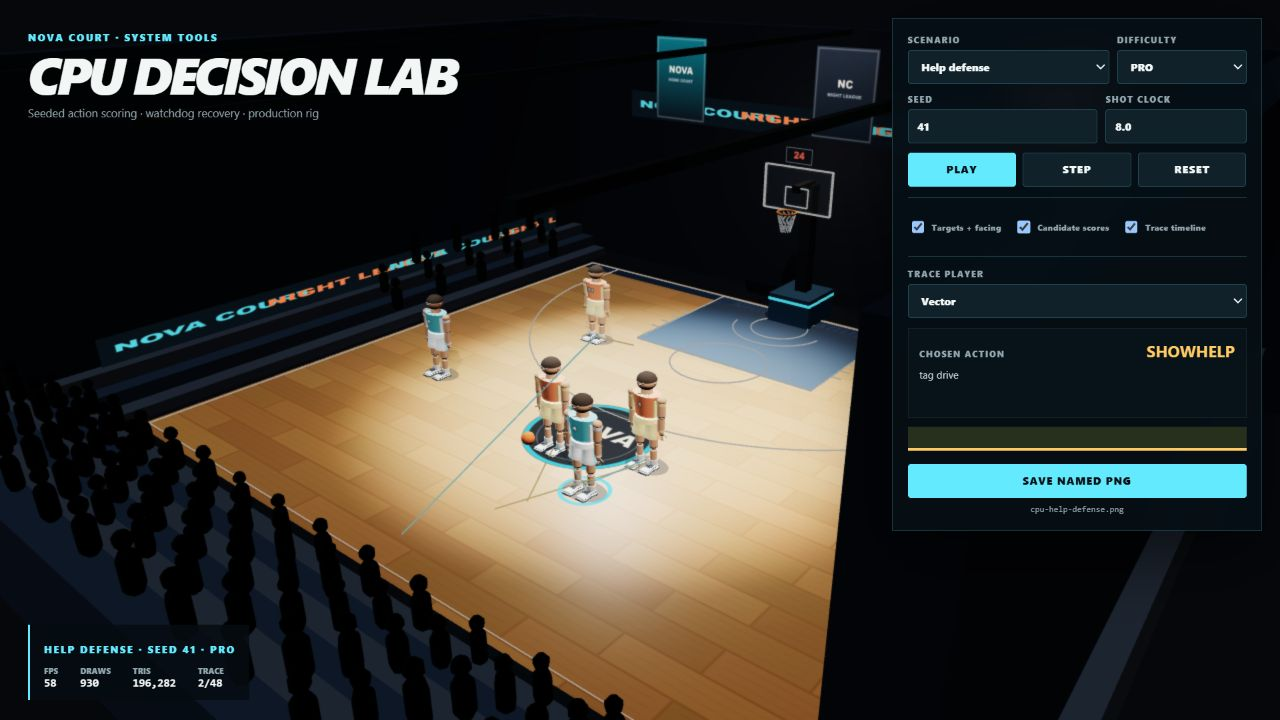
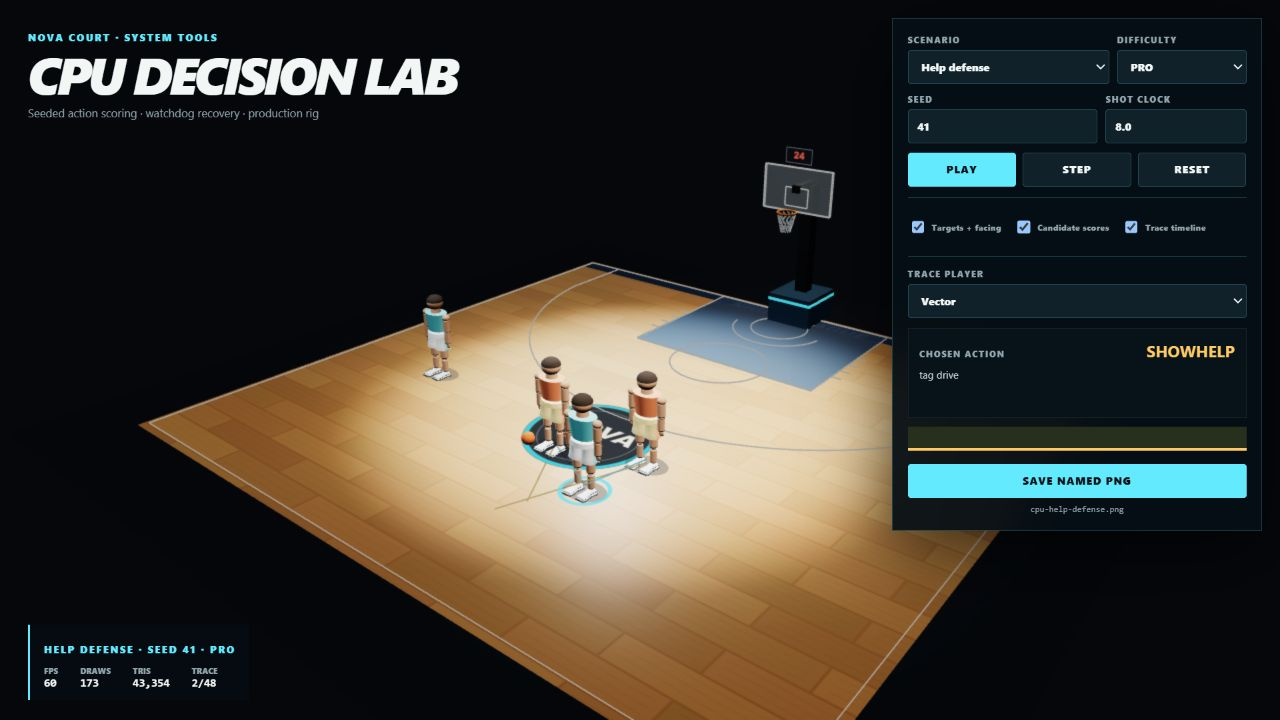
perf: enforce CPU lab render budget

diff --git a/dist/js/cpu-lab.js b/dist/js/cpu-lab.js
@@ -1,11 +1,14 @@
 import { createAIDirector, AI_TRACE_LIMIT, DIFFICULTY_PRESETS } from "./ai.js?v=5.0";
 import { NovaCourtEngine } from "./engine.js?v=6.1";
+import {
+  CPU_LAB_RENDER_BUDGET,
+  cpuLabWithinRenderBudget,
+} from "./cpu-lab-budget.js?v=1.0";
 
 const T = globalThis.THREE;
 const $ = (selector) => document.querySelector(selector);
 const clamp = (value, min = 0, max = 1) => Math.max(min, Math.min(max, value));
 const query = new URLSearchParams(location.search);
-
 export const CPU_LAB_SCENARIOS = Object.freeze({
   "open-jumper": { label: "Open jumper", clock: 14, holder: [0, .2], defender: [3.5, 1.2], mate: [4.1, .2], help: [4.15, -.1] },
   "light-contest": { label: "Lightly contested", clock: 11, holder: [0, .3], defender: [1.85, .2], mate: [-4.3, .2], help: [4.5, -.5] },
@@ -29,31 +32,66 @@ const state = {
 const roster = [
   { id:"cpu-handler",name:"Axiom",team:"away",isAI:true,role:"handler",shooting:.86,jerseyNumber:1,primary:0xff6438,accent:0xffca62 },
   { id:"cpu-wing",name:"Vector",team:"away",isAI:true,role:"wing",shooting:.9,jerseyNumber:7,primary:0xff6438,accent:0xffca62 },
-  { id:"cpu-big",name:"Atlas",team:"away",isAI:true,role:"big",shooting:.67,jerseyNumber:33,primary:0xff6438,accent:0xffca62 },
   { id:"defender",name:"Nova",team:"home",controlled:true,isAI:false,role:"handler",jerseyNumber:4,primary:0x35d5ea,accent:0xffffff },
   { id:"help",name:"Orbit",team:"home",isAI:false,role:"wing",jerseyNumber:8,primary:0x35d5ea,accent:0xffffff },
 ];
-const engine = new NovaCourtEngine({ container:$("#cpu-stage"),players:roster,mode:"cpu-lab",cameraMode:"broadcast",shadows:true,pixelRatio:1,visualQuality:"balanced",venue:"arena" });
+const engine = new NovaCourtEngine({ container:$("#cpu-stage"),players:roster,mode:"cpu-lab",cameraMode:"broadcast",shadows:false,pixelRatio:1,visualQuality:"performance",venue:"arena" });
 engine.start();
 engine.setPaused(true);
+engine.renderer.shadowMap.enabled=false;
+engine.scene.traverse((node)=>{node.castShadow=false;node.receiveShadow=false});
+const productionGlass=engine.backboard.material;
+engine.backboard.material=new T.MeshStandardMaterial({color:0xd8edf2,roughness:.28,transparent:true,opacity:.42});
+productionGlass.dispose();
+engine.arenaCrowd.visible=false;
+engine.arenaCrowdHeads.visible=false;
+for(const node of engine.worldRoot.children){
+  if(node===engine.ballMesh||node===engine.rim||node===engine.backboard||engine.netLines.includes(node))continue;
+  const {x,y,z}=node.position;
+  if(Math.abs(x)>7.55||z>7.15||z<-7.25||y>4.45)node.visible=false;
+}
+for(const athlete of engine.players){
+  athlete.setVisualQuality("performance");
+  const hairRoot=athlete.hips.children.find((node)=>node.name.startsWith("hair-"));
+  const hairSilhouette=hairRoot?.children.find((node)=>node.isMesh);
+  if(hairSilhouette)hairSilhouette.visible=true;
+  for(const arm of athlete.arms){
+    for(const digit of Object.values(arm.handRig?.digits||{}))digit.root.visible=false;
+  }
+  for(const leg of athlete.legs){
+    leg.shoe.traverse((node)=>{if(node.isMesh)node.visible=false});
+    leg.shoe.traverse((node)=>{
+      if(node.isMesh&&/(outsole|midsole|upper)$/.test(node.name))node.visible=true;
+    });
+  }
+}
 engine.camera.position.set(10.8,8.7,13.5);
 engine.camera.lookAt(0,1.1,0);
 engine.cameraTarget.set(0,1.1,0);
 let director;
 let latestIntents=[];
 
-const overlayRoot=new T.Group();
+const overlayPositions=new Float32Array(engine.players.length*2*2*3);
+const overlayColors=new Float32Array(engine.players.length*2*2*3);
+const targetColor=new T.Color(0xffca62),faceColor=new T.Color(0x63eaff);
+for(let playerIndex=0;playerIndex<engine.players.length;playerIndex+=1){
+  for(let vertex=0;vertex<2;vertex+=1){
+    targetColor.toArray(overlayColors,(playerIndex*4+vertex)*3);
+    faceColor.toArray(overlayColors,(playerIndex*4+2+vertex)*3);
+  }
+}
+const overlayGeometry=new T.BufferGeometry();
+overlayGeometry.setAttribute("position",new T.BufferAttribute(overlayPositions,3));
+overlayGeometry.setAttribute("color",new T.BufferAttribute(overlayColors,3));
+const overlayRoot=new T.LineSegments(overlayGeometry,new T.LineBasicMaterial({vertexColors:true,transparent:true,opacity:.9,depthTest:false}));
 engine.worldRoot.add(overlayRoot);
-function segment(color){return new T.Line(new T.BufferGeometry().setFromPoints([new T.Vector3(),new T.Vector3()]),new T.LineBasicMaterial({color,transparent:true,opacity:.9,depthTest:false}))}
-const targetLines=new Map();
-for(const item of engine.players){const target=segment(0xffca62),face=segment(0x63eaff);overlayRoot.add(target,face);targetLines.set(item.id,{target,face})}
 function player(id){return engine.players.find((item)=>item.id===id)}
 function setXZ(id,coordinates){const item=player(id);item.root.position.set(coordinates[0],0,coordinates[1]);item.velocity.set(0,0,0);item.desiredVelocity.set(0,0,0)}
 function buildSnapshot(){
   const scenario=CPU_LAB_SCENARIOS[state.scenario],helpDefense=state.scenario==="help-defense";
   const holder=helpDefense?player("defender"):scenario.holder?player("cpu-handler"):null;
   return {
-    players:engine.players.filter((item)=>!(helpDefense&&item.id==="cpu-big")).map((item)=>({id:item.id,teamId:item.team,position:{x:item.root.position.x,z:item.root.position.z},velocity:{x:item.velocity.x,z:item.velocity.z},hasBall:item===holder,role:item.metadata.role,shooting:item.metadata.shooting??(item.id==="cpu-wing"?.9:.75),stamina:item.stamina,isHuman:false,aiEnabled:item.team==="away",canDunk:item.metadata.role==="big"})),
+    players:engine.players.map((item)=>({id:item.id,teamId:item.team,position:{x:item.root.position.x,z:item.root.position.z},velocity:{x:item.velocity.x,z:item.velocity.z},hasBall:item===holder,role:item.metadata.role,shooting:item.metadata.shooting??(item.id==="cpu-wing"?.9:.75),stamina:item.stamina,isHuman:false,aiEnabled:item.team==="away",canDunk:item.metadata.role==="big"})),
     ball:{holderId:holder?.id||null,position:{x:engine.ball.position.x,z:engine.ball.position.z},velocity:{x:0,z:-.4},isLoose:!holder,airborne:state.scenario==="rebound",isShotResolved:state.scenario!=="rebound"},
     offenseTeamId:helpDefense?"home":"away",phase:"live",possessionId:1,shotClock:state.shotClock,attackBaskets:{away:{x:0,z:-5.7},home:{x:0,z:5.7}},court:{halfWidth:7.5,halfLength:7,threePointRadius:6.15},
   };
@@ -61,9 +99,9 @@ function buildSnapshot(){
 function reset(){
   const scenario=CPU_LAB_SCENARIOS[state.scenario];state.playing=false;state.shotClock=scenario.clock;
   if(state.scenario==="help-defense"){
-    setXZ("cpu-handler",scenario.defender);setXZ("cpu-wing",scenario.help);setXZ("cpu-big",[-3.2,-2.3]);setXZ("defender",scenario.holder);setXZ("help",scenario.mate);
+    setXZ("cpu-handler",scenario.defender);setXZ("cpu-wing",scenario.help);setXZ("defender",scenario.holder);setXZ("help",scenario.mate);
   }else{
-    setXZ("cpu-handler",scenario.holder||[-.2,-4.5]);setXZ("cpu-wing",scenario.mate);setXZ("cpu-big",[-3.2,-2.3]);setXZ("defender",scenario.defender);setXZ("help",scenario.help);
+    setXZ("cpu-handler",scenario.holder||[-.2,-4.5]);setXZ("cpu-wing",scenario.mate);setXZ("defender",scenario.defender);setXZ("help",scenario.help);
   }
   engine.ball.owner=null;for(const item of engine.players)item.hasBall=false;
   if(state.scenario==="help-defense")engine.givePossession(player("defender"),true);
@@ -84,7 +122,14 @@ function step(seconds=.18){
 }
 function updateWorldOverlays(){
   overlayRoot.visible=state.overlays.targets;
-  for(const intent of latestIntents){const item=player(intent.playerId),lines=targetLines.get(intent.playerId);if(!item||!lines)continue;lines.target.geometry.setFromPoints([item.root.position.clone().setY(.06),new T.Vector3(intent.move.target.x,.06,intent.move.target.z)]);lines.face.geometry.setFromPoints([item.root.position.clone().setY(.13),new T.Vector3(intent.face.x,.13,intent.face.z)])}
+  overlayPositions.fill(0);
+  for(const intent of latestIntents){
+    const item=player(intent.playerId),index=engine.players.indexOf(item);
+    if(!item||index<0)continue;
+    const offset=index*12;
+    overlayPositions.set([item.root.position.x,.06,item.root.position.z,intent.move.target.x,.06,intent.move.target.z,item.root.position.x,.13,item.root.position.z,intent.face.x,.13,intent.face.z],offset);
+  }
+  overlayGeometry.attributes.position.needsUpdate=true;
 }
 function selectedTrace(){const own=director.getDecisionTraces(state.tracePlayer);return own.at(-1)||director.getDecisionTraces("cpu-handler").at(-1)}
 function syncUI(){
@@ -107,4 +152,4 @@ for(const [id,key] of [["targets","targets"],["scores","scores"],["timeline-togg
 let last=performance.now(),metricAt=last,frames=0,accumulator=0;
 function frame(now){const dt=Math.min(.05,(now-last)/1e3);last=now;if(state.playing){accumulator+=dt;if(accumulator>=.18){step(.18);accumulator=0}}engine.render();frames++;if(now-metricAt>=500){$("#fps").textContent=Math.round(frames*1e3/(now-metricAt));$("#draws").textContent=engine.renderer.info.render.calls;$("#tris").textContent=engine.renderer.info.render.triangles.toLocaleString();frames=0;metricAt=now}requestAnimationFrame(frame)}
 reset();requestAnimationFrame(frame);
-globalThis.__NOVA_CPU_LAB__=Object.freeze({setScenario,step,reset,setPlaying(value){state.playing=Boolean(value);syncUI();return true},getState(){return Object.freeze({scenario:state.scenario,difficulty:state.difficulty,seed:state.seed,shotClock:state.shotClock,playing:state.playing,overlays:{...state.overlays},metrics:{fps:Number($("#fps").textContent),draws:engine.renderer.info.render.calls,triangles:engine.renderer.info.render.triangles,textures:engine.renderer.info.memory.textures},assetLoadStatus:"production-engine-court-and-procedural-players-ready"})},getTrace(playerId=state.tracePlayer){return director.getDecisionTraces(playerId)}});
+globalThis.__NOVA_CPU_LAB__=Object.freeze({setScenario,step,reset,setPlaying(value){state.playing=Boolean(value);syncUI();return true},getState(){const metrics={fps:Number($("#fps").textContent),draws:engine.renderer.info.render.calls,triangles:engine.renderer.info.render.triangles,textures:engine.renderer.info.memory.textures};return Object.freeze({scenario:state.scenario,difficulty:state.difficulty,seed:state.seed,shotClock:state.shotClock,playing:state.playing,overlays:{...state.overlays},metrics,budget:CPU_LAB_RENDER_BUDGET,withinBudget:cpuLabWithinRenderBudget(metrics),assetLoadStatus:"production-engine-court-and-procedural-players-ready"})},getTrace(playerId=state.tracePlayer){return director.getDecisionTraces(playerId)}});

diff --git a/js/cpu-lab.js b/js/cpu-lab.js
@@ -1,11 +1,14 @@
 import { createAIDirector, AI_TRACE_LIMIT, DIFFICULTY_PRESETS } from "./ai.js?v=5.0";
 import { NovaCourtEngine } from "./engine.js?v=6.1";
+import {
+  CPU_LAB_RENDER_BUDGET,
+  cpuLabWithinRenderBudget,
+} from "./cpu-lab-budget.js?v=1.0";
 
 const T = globalThis.THREE;
 const $ = (selector) => document.querySelector(selector);
 const clamp = (value, min = 0, max = 1) => Math.max(min, Math.min(max, value));
 const query = new URLSearchParams(location.search);
-
 export const CPU_LAB_SCENARIOS = Object.freeze({
   "open-jumper": { label: "Open jumper", clock: 14, holder: [0, .2], defender: [3.5, 1.2], mate: [4.1, .2], help: [4.15, -.1] },
   "light-contest": { label: "Lightly contested", clock: 11, holder: [0, .3], defender: [1.85, .2], mate: [-4.3, .2], help: [4.5, -.5] },
@@ -29,31 +32,66 @@ const state = {
 const roster = [
   { id:"cpu-handler",name:"Axiom",team:"away",isAI:true,role:"handler",shooting:.86,jerseyNumber:1,primary:0xff6438,accent:0xffca62 },
   { id:"cpu-wing",name:"Vector",team:"away",isAI:true,role:"wing",shooting:.9,jerseyNumber:7,primary:0xff6438,accent:0xffca62 },
-  { id:"cpu-big",name:"Atlas",team:"away",isAI:true,role:"big",shooting:.67,jerseyNumber:33,primary:0xff6438,accent:0xffca62 },
   { id:"defender",name:"Nova",team:"home",controlled:true,isAI:false,role:"handler",jerseyNumber:4,primary:0x35d5ea,accent:0xffffff },
   { id:"help",name:"Orbit",team:"home",isAI:false,role:"wing",jerseyNumber:8,primary:0x35d5ea,accent:0xffffff },
 ];
-const engine = new NovaCourtEngine({ container:$("#cpu-stage"),players:roster,mode:"cpu-lab",cameraMode:"broadcast",shadows:true,pixelRatio:1,visualQuality:"balanced",venue:"arena" });
+const engine = new NovaCourtEngine({ container:$("#cpu-stage"),players:roster,mode:"cpu-lab",cameraMode:"broadcast",shadows:false,pixelRatio:1,visualQuality:"performance",venue:"arena" });
 engine.start();
 engine.setPaused(true);
+engine.renderer.shadowMap.enabled=false;
+engine.scene.traverse((node)=>{node.castShadow=false;node.receiveShadow=false});
+const productionGlass=engine.backboard.material;
+engine.backboard.material=new T.MeshStandardMaterial({color:0xd8edf2,roughness:.28,transparent:true,opacity:.42});
+productionGlass.dispose();
+engine.arenaCrowd.visible=false;
+engine.arenaCrowdHeads.visible=false;
+for(const node of engine.worldRoot.children){
+  if(node===engine.ballMesh||node===engine.rim||node===engine.backboard||engine.netLines.includes(node))continue;
+  const {x,y,z}=node.position;
+  if(Math.abs(x)>7.55||z>7.15||z<-7.25||y>4.45)node.visible=false;
+}
+for(const athlete of engine.players){
+  athlete.setVisualQuality("performance");
+  const hairRoot=athlete.hips.children.find((node)=>node.name.startsWith("hair-"));
+  const hairSilhouette=hairRoot?.children.find((node)=>node.isMesh);
+  if(hairSilhouette)hairSilhouette.visible=true;
+  for(const arm of athlete.arms){
+    for(const digit of Object.values(arm.handRig?.digits||{}))digit.root.visible=false;
+  }
+  for(const leg of athlete.legs){
+    leg.shoe.traverse((node)=>{if(node.isMesh)node.visible=false});
+    leg.shoe.traverse((node)=>{
+      if(node.isMesh&&/(outsole|midsole|upper)$/.test(node.name))node.visible=true;
+    });
+  }
+}
 engine.camera.position.set(10.8,8.7,13.5);
 engine.camera.lookAt(0,1.1,0);
 engine.cameraTarget.set(0,1.1,0);
 let director;
 let latestIntents=[];
 
-const overlayRoot=new T.Group();
+const overlayPositions=new Float32Array(engine.players.length*2*2*3);
+const overlayColors=new Float32Array(engine.players.length*2*2*3);
+const targetColor=new T.Color(0xffca62),faceColor=new T.Color(0x63eaff);
+for(let playerIndex=0;playerIndex<engine.players.length;playerIndex+=1){
+  for(let vertex=0;vertex<2;vertex+=1){
+    targetColor.toArray(overlayColors,(playerIndex*4+vertex)*3);
+    faceColor.toArray(overlayColors,(playerIndex*4+2+vertex)*3);
+  }
+}
+const overlayGeometry=new T.BufferGeometry();
+overlayGeometry.setAttribute("position",new T.BufferAttribute(overlayPositions,3));
+overlayGeometry.setAttribute("color",new T.BufferAttribute(overlayColors,3));
+const overlayRoot=new T.LineSegments(overlayGeometry,new T.LineBasicMaterial({vertexColors:true,transparent:true,opacity:.9,depthTest:false}));
 engine.worldRoot.add(overlayRoot);
-function segment(color){return new T.Line(new T.BufferGeometry().setFromPoints([new T.Vector3(),new T.Vector3()]),new T.LineBasicMaterial({color,transparent:true,opacity:.9,depthTest:false}))}
-const targetLines=new Map();
-for(const item of engine.players){const target=segment(0xffca62),face=segment(0x63eaff);overlayRoot.add(target,face);targetLines.set(item.id,{target,face})}
 function player(id){return engine.players.find((item)=>item.id===id)}
 function setXZ(id,coordinates){const item=player(id);item.root.position.set(coordinates[0],0,coordinates[1]);item.velocity.set(0,0,0);item.desiredVelocity.set(0,0,0)}
 function buildSnapshot(){
   const scenario=CPU_LAB_SCENARIOS[state.scenario],helpDefense=state.scenario==="help-defense";
   const holder=helpDefense?player("defender"):scenario.holder?player("cpu-handler"):null;
   return {
-    players:engine.players.filter((item)=>!(helpDefense&&item.id==="cpu-big")).map((item)=>({id:item.id,teamId:item.team,position:{x:item.root.position.x,z:item.root.position.z},velocity:{x:item.velocity.x,z:item.velocity.z},hasBall:item===holder,role:item.metadata.role,shooting:item.metadata.shooting??(item.id==="cpu-wing"?.9:.75),stamina:item.stamina,isHuman:false,aiEnabled:item.team==="away",canDunk:item.metadata.role==="big"})),
+    players:engine.players.map((item)=>({id:item.id,teamId:item.team,position:{x:item.root.position.x,z:item.root.position.z},velocity:{x:item.velocity.x,z:item.velocity.z},hasBall:item===holder,role:item.metadata.role,shooting:item.metadata.shooting??(item.id==="cpu-wing"?.9:.75),stamina:item.stamina,isHuman:false,aiEnabled:item.team==="away",canDunk:item.metadata.role==="big"})),
     ball:{holderId:holder?.id||null,position:{x:engine.ball.position.x,z:engine.ball.position.z},velocity:{x:0,z:-.4},isLoose:!holder,airborne:state.scenario==="rebound",isShotResolved:state.scenario!=="rebound"},
     offenseTeamId:helpDefense?"home":"away",phase:"live",possessionId:1,shotClock:state.shotClock,attackBaskets:{away:{x:0,z:-5.7},home:{x:0,z:5.7}},court:{halfWidth:7.5,halfLength:7,threePointRadius:6.15},
   };
@@ -61,9 +99,9 @@ function buildSnapshot(){
 function reset(){
   const scenario=CPU_LAB_SCENARIOS[state.scenario];state.playing=false;state.shotClock=scenario.clock;
   if(state.scenario==="help-defense"){
-    setXZ("cpu-handler",scenario.defender);setXZ("cpu-wing",scenario.help);setXZ("cpu-big",[-3.2,-2.3]);setXZ("defender",scenario.holder);setXZ("help",scenario.mate);
+    setXZ("cpu-handler",scenario.defender);setXZ("cpu-wing",scenario.help);setXZ("defender",scenario.holder);setXZ("help",scenario.mate);
   }else{
-    setXZ("cpu-handler",scenario.holder||[-.2,-4.5]);setXZ("cpu-wing",scenario.mate);setXZ("cpu-big",[-3.2,-2.3]);setXZ("defender",scenario.defender);setXZ("help",scenario.help);
+    setXZ("cpu-handler",scenario.holder||[-.2,-4.5]);setXZ("cpu-wing",scenario.mate);setXZ("defender",scenario.defender);setXZ("help",scenario.help);
   }
   engine.ball.owner=null;for(const item of engine.players)item.hasBall=false;
   if(state.scenario==="help-defense")engine.givePossession(player("defender"),true);
@@ -84,7 +122,14 @@ function step(seconds=.18){
 }
 function updateWorldOverlays(){
   overlayRoot.visible=state.overlays.targets;
-  for(const intent of latestIntents){const item=player(intent.playerId),lines=targetLines.get(intent.playerId);if(!item||!lines)continue;lines.target.geometry.setFromPoints([item.root.position.clone().setY(.06),new T.Vector3(intent.move.target.x,.06,intent.move.target.z)]);lines.face.geometry.setFromPoints([item.root.position.clone().setY(.13),new T.Vector3(intent.face.x,.13,intent.face.z)])}
+  overlayPositions.fill(0);
+  for(const intent of latestIntents){
+    const item=player(intent.playerId),index=engine.players.indexOf(item);
+    if(!item||index<0)continue;
+    const offset=index*12;
+    overlayPositions.set([item.root.position.x,.06,item.root.position.z,intent.move.target.x,.06,intent.move.target.z,item.root.position.x,.13,item.root.position.z,intent.face.x,.13,intent.face.z],offset);
+  }
+  overlayGeometry.attributes.position.needsUpdate=true;
 }
 function selectedTrace(){const own=director.getDecisionTraces(state.tracePlayer);return own.at(-1)||director.getDecisionTraces("cpu-handler").at(-1)}
 function syncUI(){
@@ -107,4 +152,4 @@ for(const [id,key] of [["targets","targets"],["scores","scores"],["timeline-togg
 let last=performance.now(),metricAt=last,frames=0,accumulator=0;
 function frame(now){const dt=Math.min(.05,(now-last)/1e3);last=now;if(state.playing){accumulator+=dt;if(accumulator>=.18){step(.18);accumulator=0}}engine.render();frames++;if(now-metricAt>=500){$("#fps").textContent=Math.round(frames*1e3/(now-metricAt));$("#draws").textContent=engine.renderer.info.render.calls;$("#tris").textContent=engine.renderer.info.render.triangles.toLocaleString();frames=0;metricAt=now}requestAnimationFrame(frame)}
 reset();requestAnimationFrame(frame);
-globalThis.__NOVA_CPU_LAB__=Object.freeze({setScenario,step,reset,setPlaying(value){state.playing=Boolean(value);syncUI();return true},getState(){return Object.freeze({scenario:state.scenario,difficulty:state.difficulty,seed:state.seed,shotClock:state.shotClock,playing:state.playing,overlays:{...state.overlays},metrics:{fps:Number($("#fps").textContent),draws:engine.renderer.info.render.calls,triangles:engine.renderer.info.render.triangles,textures:engine.renderer.info.memory.textures},assetLoadStatus:"production-engine-court-and-procedural-players-ready"})},getTrace(playerId=state.tracePlayer){return director.getDecisionTraces(playerId)}});
+globalThis.__NOVA_CPU_LAB__=Object.freeze({setScenario,step,reset,setPlaying(value){state.playing=Boolean(value);syncUI();return true},getState(){const metrics={fps:Number($("#fps").textContent),draws:engine.renderer.info.render.calls,triangles:engine.renderer.info.render.triangles,textures:engine.renderer.info.memory.textures};return Object.freeze({scenario:state.scenario,difficulty:state.difficulty,seed:state.seed,shotClock:state.shotClock,playing:state.playing,overlays:{...state.overlays},metrics,budget:CPU_LAB_RENDER_BUDGET,withinBudget:cpuLabWithinRenderBudget(metrics),assetLoadStatus:"production-engine-court-and-procedural-players-ready"})},getTrace(playerId=state.tracePlayer){return director.getDecisionTraces(playerId)}});

diff --git a/dist/js/cpu-lab-budget.js b/dist/js/cpu-lab-budget.js
@@ -1,0 +1,13 @@
+export const CPU_LAB_RENDER_BUDGET = Object.freeze({
+  calls: 180,
+  triangles: 100000,
+});
+
+export function cpuLabWithinRenderBudget(metrics = {}) {
+  const calls = Number(metrics.calls ?? metrics.draws);
+  const triangles = Number(metrics.triangles);
+  return Number.isFinite(calls)
+    && Number.isFinite(triangles)
+    && calls <= CPU_LAB_RENDER_BUDGET.calls
+    && triangles <= CPU_LAB_RENDER_BUDGET.triangles;
+}

diff --git a/js/cpu-lab-budget.js b/js/cpu-lab-budget.js
@@ -1,0 +1,13 @@
+export const CPU_LAB_RENDER_BUDGET = Object.freeze({
+  calls: 180,
+  triangles: 100000,
+});
+
+export function cpuLabWithinRenderBudget(metrics = {}) {
+  const calls = Number(metrics.calls ?? metrics.draws);
+  const triangles = Number(metrics.triangles);
+  return Number.isFinite(calls)
+    && Number.isFinite(triangles)
+    && calls <= CPU_LAB_RENDER_BUDGET.calls
+    && triangles <= CPU_LAB_RENDER_BUDGET.triangles;
+}

diff --git a/reports/cpu-lab/final/README.md b/reports/cpu-lab/final/README.md
@@ -1,9 +1,9 @@
 # CPU Decision Lab — deterministic visual QA
 
-Captured at `1280×720` from the production `NovaCourtEngine` arena, player
-rigs, basketball, lights, and renderer. The cyan lines are facing vectors and
-the gold lines are movement targets. All captures use difficulty `pro` and
-seed `41`.
+Captured at `1280×720` from the production `NovaCourtEngine` court, player
+rigs, basketball, hoop, lights, and renderer. The cyan lines are facing
+vectors and the gold lines are movement targets. All captures use difficulty
+`pro` and seed `41`.
 
 ## Reproduction
 
@@ -52,10 +52,22 @@ physics, possession, and rules.
 
 ## Renderer and debug cost
 
-The reference Chrome capture reported 48–60 FPS after warm-up, 930 draw calls,
-196,282 triangles, and no console warnings or errors. This is the complete
-balanced production arena rather than a lightweight mock. The lab intentionally
-keeps a fixed one-device-pixel render ratio for stable screenshots.
+The final reference Chrome captures report a stable 60 FPS after warm-up,
+170–173 draw calls, and 41,774–43,354 triangles with no console warnings or
+errors. The enforced lab ceiling is 180 calls and 100,000 triangles. The
+budget is exposed by `__NOVA_CPU_LAB__.getState()` as `budget` and
+`withinBudget`, and has a headless boundary regression test.
+
+The harness keeps the production engine, authored court/hoop, ball, procedural
+athlete rigs, and real AI director. Lab-only presentation removes crowd,
+bleachers, wall architecture, shadow passes, finger micro-geometry, and shoe
+micro-detail. Hair silhouettes and the primary anatomical volumes remain
+visible. Movement targets and facing vectors share one `LineSegments` draw.
+The backboard retains a transparent glass appearance without the expensive
+transmission pre-pass that previously rendered the scene twice.
+
+The lab intentionally keeps a fixed one-device-pixel render ratio for stable
+screenshots.
 
 With debugging disabled, the scoring pass retains only the active per-player
 decision memory and accumulates zero trace records. With debugging enabled,
@@ -69,5 +81,5 @@ target/facing coordinates.
 - The lab advances deterministic high-level intents in discrete steps and
   moves preview actors toward targets, but it does not execute a full game or
   bypass authoritative rules.
-- Renderer counts include the complete arena crowd and are deliberately
-  higher than a minimal diagnostic scene.
+- The lab uses a performance review LOD, so production finger articulation,
+  shoe detailing, crowds, shadows, and architecture are intentionally absent.
